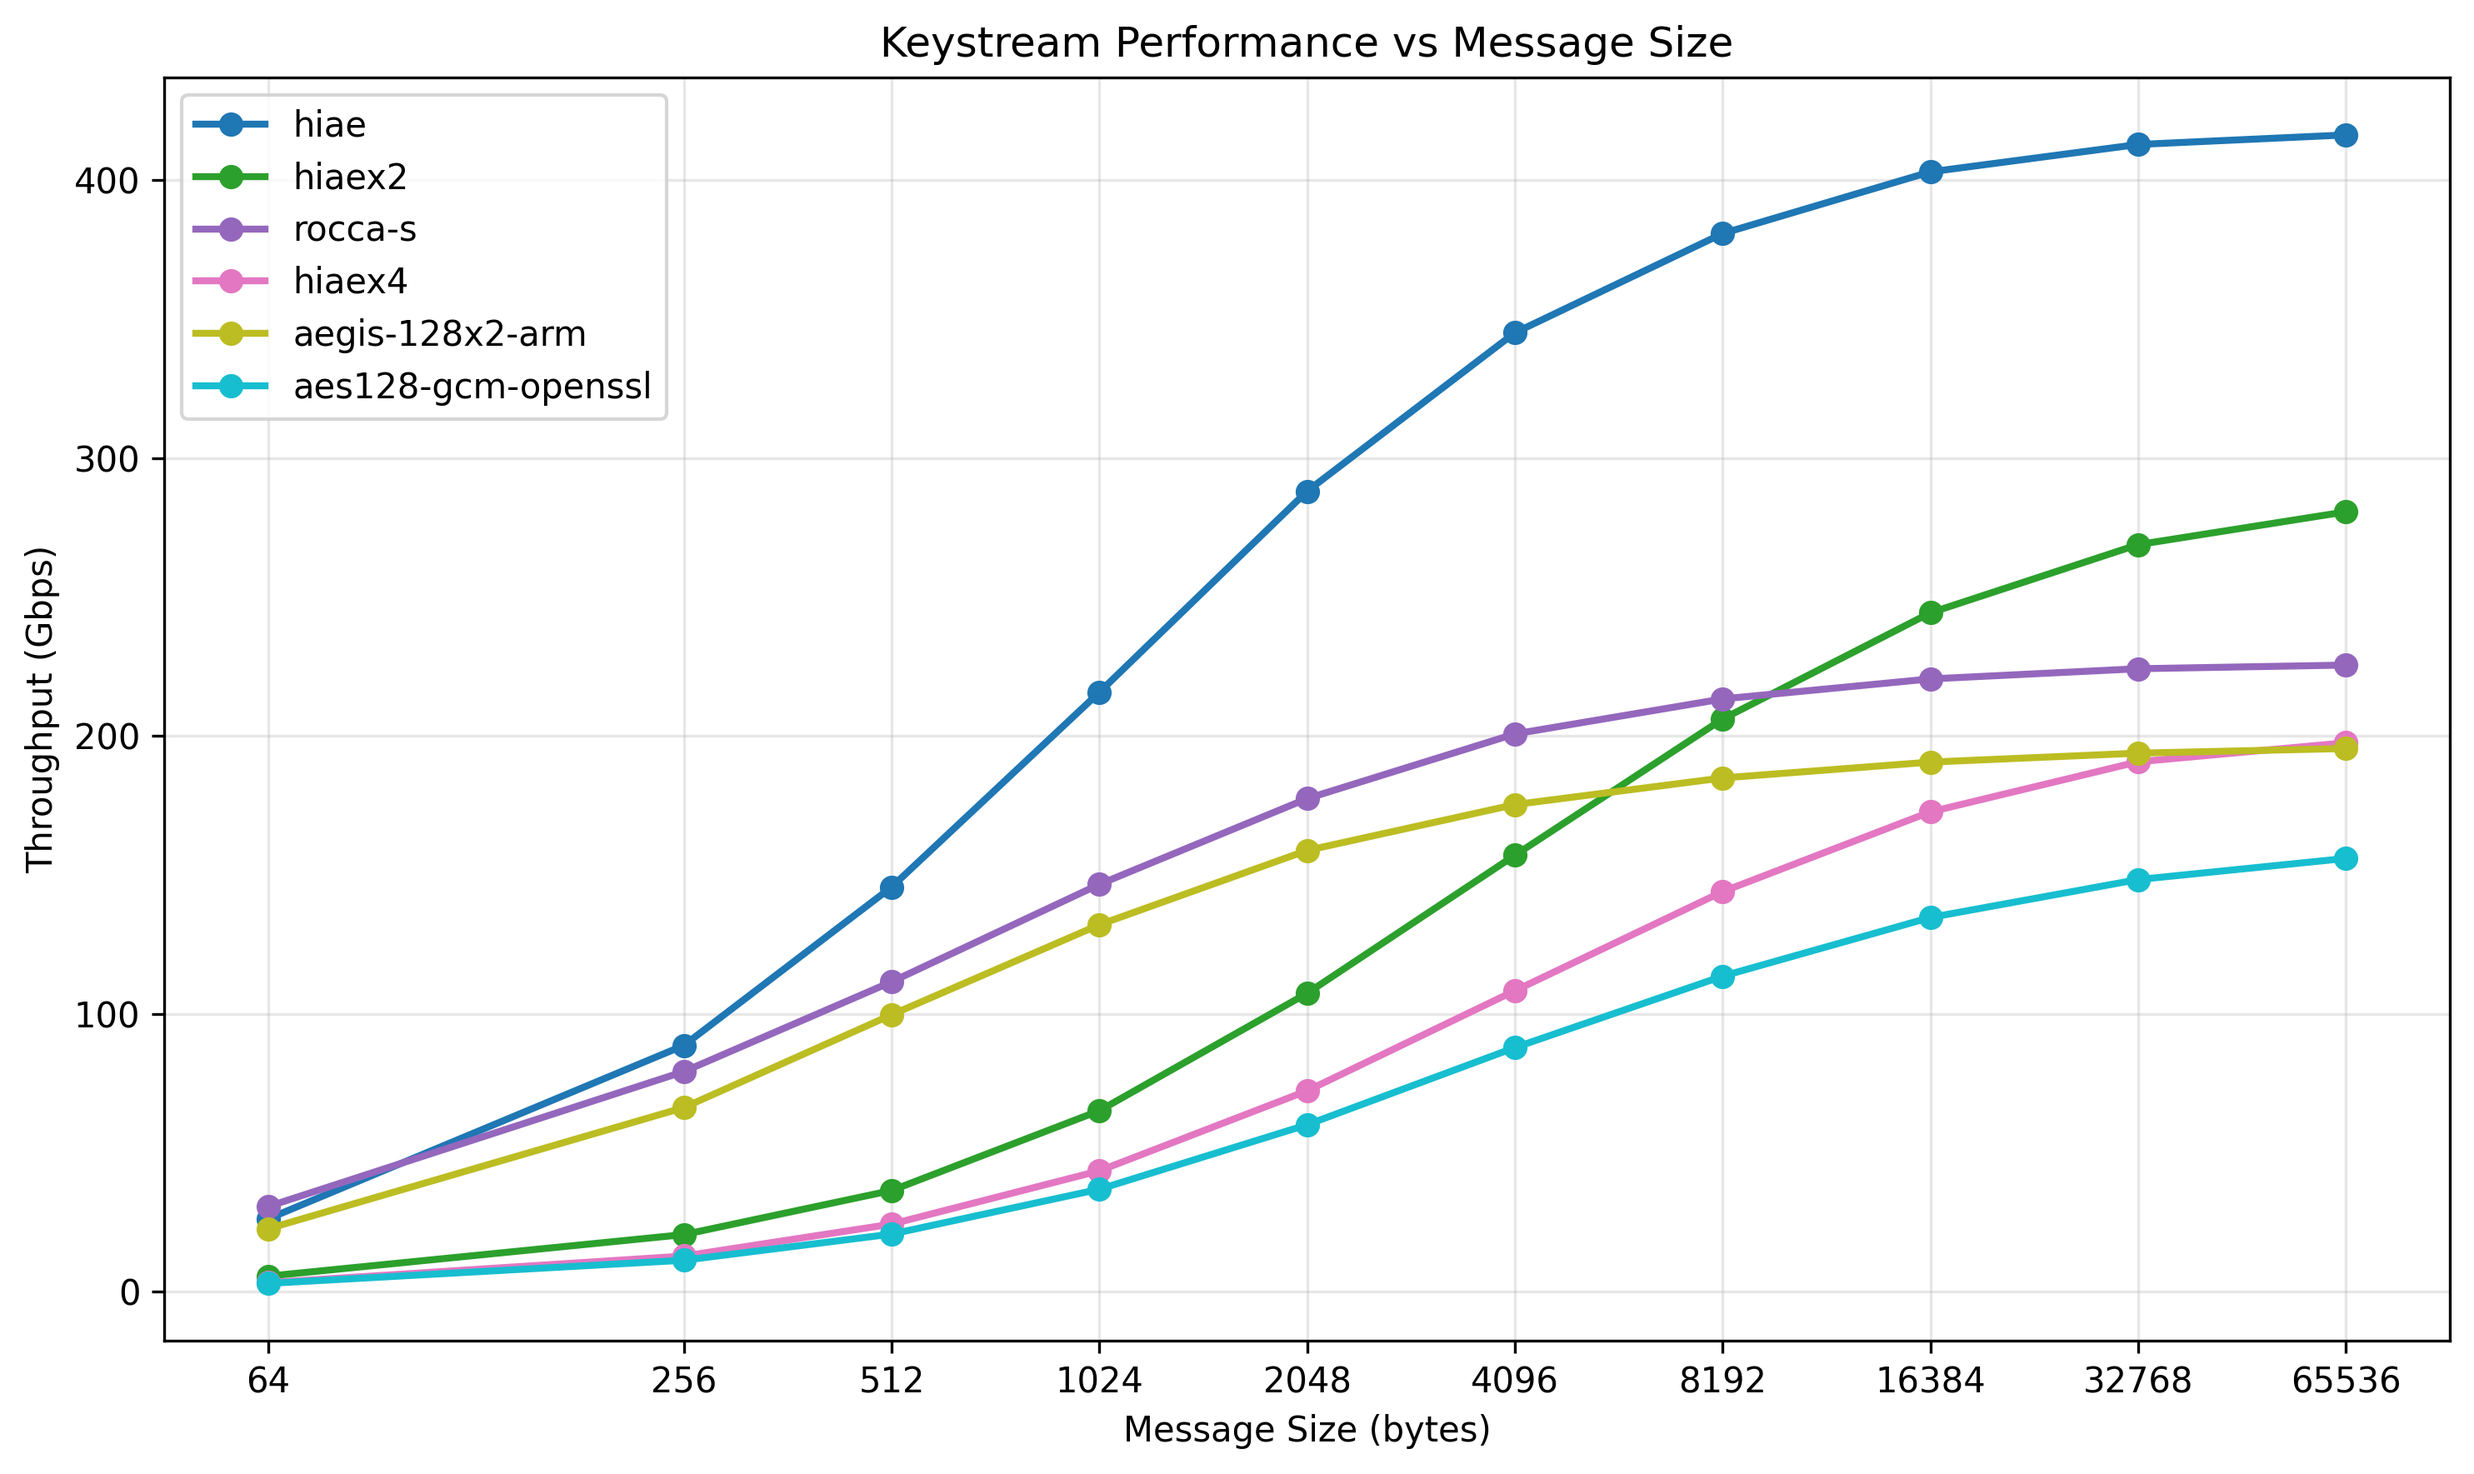
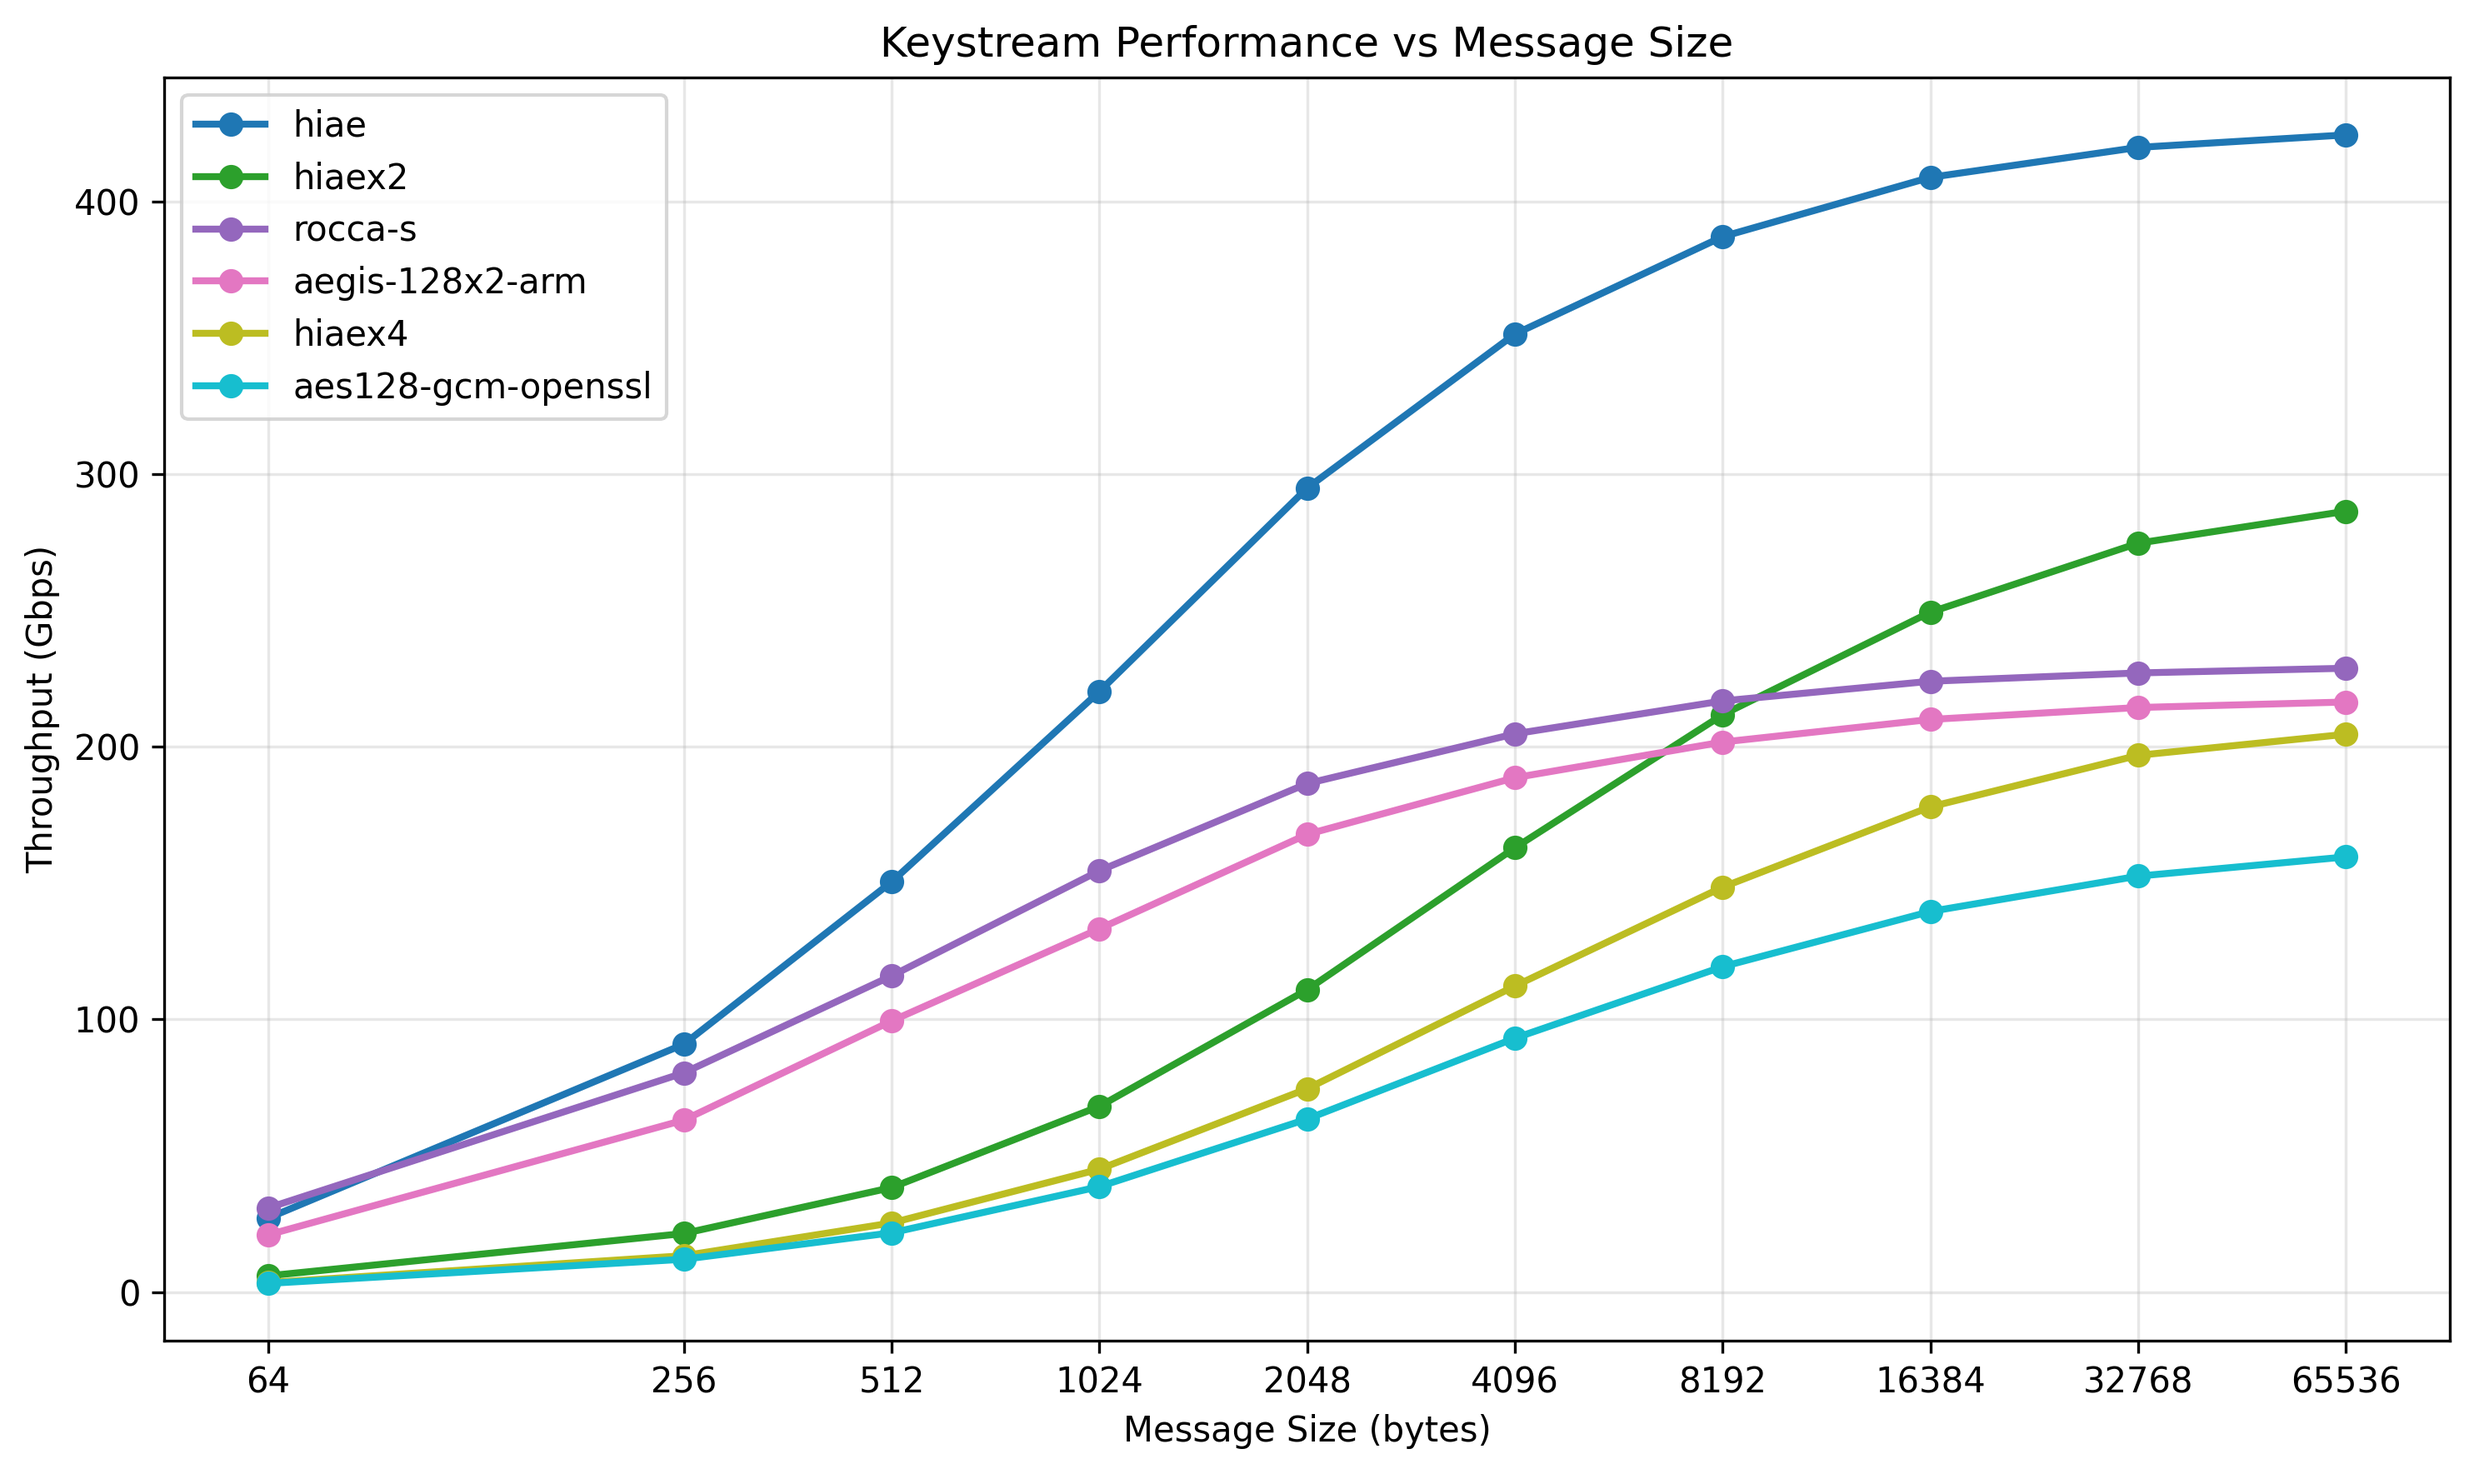
Update M5 reults

diff --git a/README.md b/README.md
@@ -61,9 +61,6 @@ Note: Some implementations require specific CPU features:
 - AES-128-GCM: OpenSSL library
 - HiAEx4 on x86_64: AVX-512F, AVX-512VL and VAES, otherwise it falls back to a much slower portable implementation
 
-The AEGIS-128x4 implementation includes the optimizations from libaegis commit `7cc9284`.
-Its tests check libaegis vectors, block boundaries, in-place operation, and authentication failures.
-
 ## Performance Testing
 
 Benchmarks test multiple message sizes (16B to 64KB) and measure:
@@ -105,7 +102,7 @@ cd <algorithm-directory>
 
 Measured with Apple clang 21.0.0 and OpenSSL 3.6.4 on macOS 26.
 Nothing here locks the CPU frequency the way the Zen 4 setup below does, so every number is the per-point median of three full passes.
-For messages of 4 KB and up the three passes agreed within 3.2%, with one disturbed AES-GCM point as the only exception.
+For messages of 4 KB and up the three passes agreed within 3.4%, and within 2.7% once the AES-GCM points are left out.
 
 The cycles-per-byte column that the benchmarks print is meaningless on this platform: `cntvct_el0` is a fixed 1 GHz system counter rather than the core clock, so only the throughput figures are used here.
 
@@ -115,35 +112,24 @@ The cycles-per-byte column that the benchmarks print is meaningless on this plat
 
 At 64 KB, in Gbps:
 
-| Algorithm    | Keystream | AEAD encryption | AEAD decryption | Encryption / decryption |
-| ------------ | --------: | --------------: | --------------: | ----------------------: |
-| HiAE         |     416.3 |           261.6 |           167.9 |                   1.56x |
-| ROCCA-S      |     225.5 |           203.9 |           136.4 |                   1.49x |
-| AEGIS-128x2  |     195.5 |           191.2 |           192.5 |                   0.99x |
-| HiAEx2       |     280.6 |           175.6 |           136.1 |                   1.29x |
-| HiAEx4       |     197.6 |           142.0 |           124.2 |                   1.14x |
-| AES-128-GCM  |     155.9 |            69.2 |            68.4 |                   1.01x |
+| Algorithm   | Keystream | AEAD encryption | AEAD decryption | Encryption / decryption |
+| ----------- | --------: | --------------: | --------------: | ----------------------: |
+| HiAE        |     424.4 |           266.7 |           171.4 |                   1.56x |
+| AEGIS-128x2 |     216.4 |           211.8 |           213.1 |                   0.99x |
+| ROCCA-S     |     228.8 |           208.1 |           140.4 |                   1.48x |
+| HiAEx2      |     286.4 |           180.0 |           140.1 |                   1.28x |
+| HiAEx4      |     204.6 |           146.9 |           128.2 |                   1.15x |
+| AES-128-GCM |     159.6 |            70.8 |            70.2 |                   1.01x |
 
 The encryption and decryption gap has the same shape as on Zen 4, and for the same reason: HiAE and ROCCA-S recover the message block only after the AES round has completed, which lengthens the state-update chain, while AEGIS keeps its keystream a couple of XORs away from the state and decrypts as fast as it encrypts.
-Within the HiAE family, more lanes still narrow the gap, from 1.56x for HiAE down to 1.14x for HiAEx4.
-
-Where the two machines disagree is on the multi-lane HiAE variants, the ones that run two or four independent 128-bit chains per block.
-On Zen 4 they lead by a wide margin; here every doubling of the lane count costs throughput, and plain HiAE wins.
-The state is the reason.
-HiAE keeps 16 128-bit blocks, which fits in half of the 32 NEON registers, but HiAEx2 needs all 32 for the state alone and HiAEx4 needs 64.
-Counting stack traffic in the compiled encryption loops gives 1.31 vector loads and stores per AES instruction for HiAE, 3.25 for HiAEx2 and 6.10 for HiAEx4.
-The same state maps very differently on AVX-512, where the four lanes of a HiAEx4 block share one 512-bit register and the whole state occupies 16 of the 32 available ones.
+Within the HiAE family, more lanes still narrow the gap, from 1.56x for HiAE down to 1.15x for HiAEx4.
 
 <p align="center">
   <img src=".media/m5/encryption_throughput_m5.png" width="600" alt="M5 keystream throughput by message size">
 </p>
 
 The second plot is the keystream-only path, where decryption is the same XOR as encryption and there is nothing separate to show.
-HiAE is still climbing at 64 KB, and the multi-lane variants need large messages before their lanes start to pay: HiAEx2 only passes ROCCA-S around 8 KB and never catches single-lane HiAE.
-
-AEGIS-128x2 is the one algorithm whose AEAD throughput is essentially its keystream throughput, 191.2 against 195.5 Gbps.
-The others lose much more, HiAE most of all at 261.6 against 416.3.
-A zero-filled input removes the three XORs that fold the message block back into a HiAE state and leaves only the two AES rounds, whereas in AEGIS the same XORs sit off the critical path of an update that already runs eight AES rounds.
+HiAE is still climbing at 64 KB, and the multi-lane variants need large messages before their lanes start to pay: HiAEx2 only passes ROCCA-S between 8 and 16 KB, and never catches single-lane HiAE.
 
 ### AMD Zen 4 (Ryzen 7 7700, clang 21)
 
